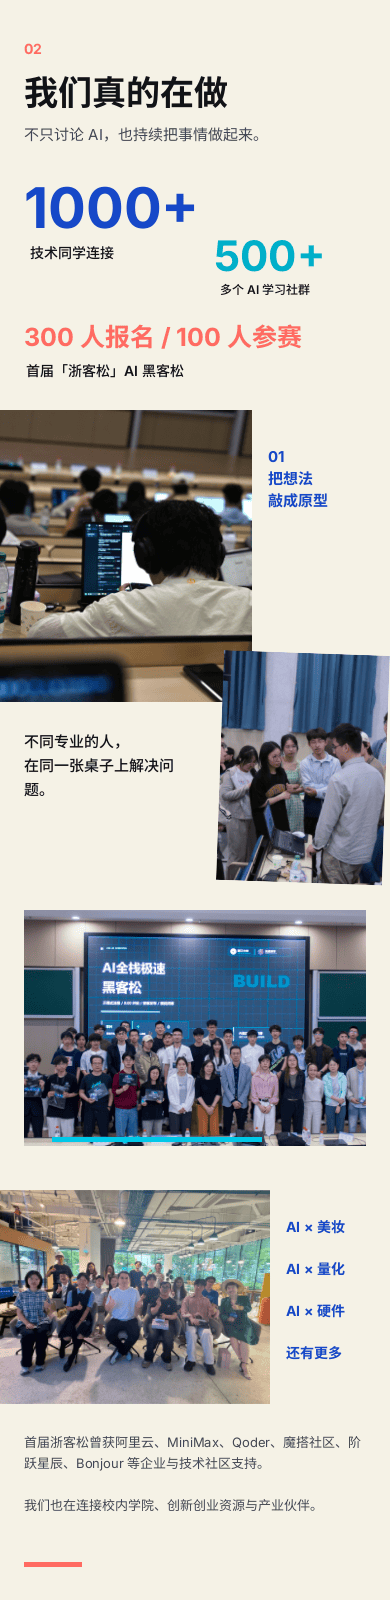
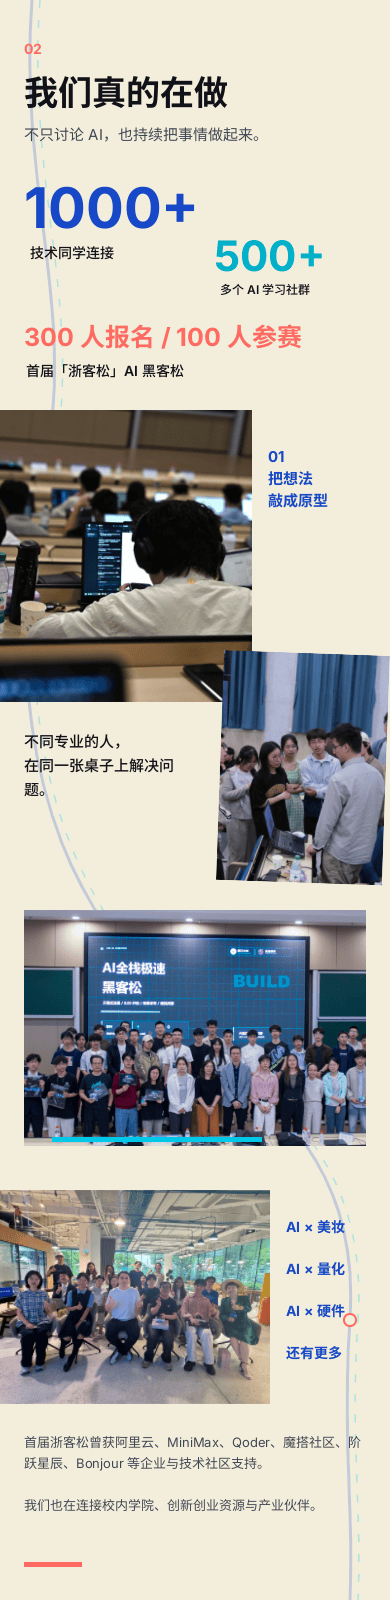
Unify Tuozhe article with continuous background

diff --git a/examples/tuozhe-2026-autumn-recruitment/README.md b/examples/tuozhe-2026-autumn-recruitment/README.md
@@ -1,6 +1,6 @@
 # 拓浙 AI 生态 2026 秋季招新｜开放工作台版
 
-这是泛化工作流在第二个组织上的完整实战样本。版面没有复用 Ocean 的海洋风格，也没有套用紫色 AI 模板，而是从拓浙的真实浙客松照片、跨专业属性和“把想法做出来”的行动主张重新生成组织专属资产。
+这是泛化工作流在第二个组织上的完整实战样本。版面没有复用 Ocean 的海洋风格，也没有套用紫色 AI 模板，而是从拓浙的真实浙客松照片、跨专业属性和“把想法做出来”的行动主张重新生成组织专属资产。六个章节共享同一张暖纸工作台底图，一根项目电缆在章节边界连续接合并进入结尾色带。
 
 [打开 Ardot 可编辑源文件](https://ardot.tencent.com/file/719045826140352)（文章根节点 `3:10`；透明小组件库 `3:17`）。
 
